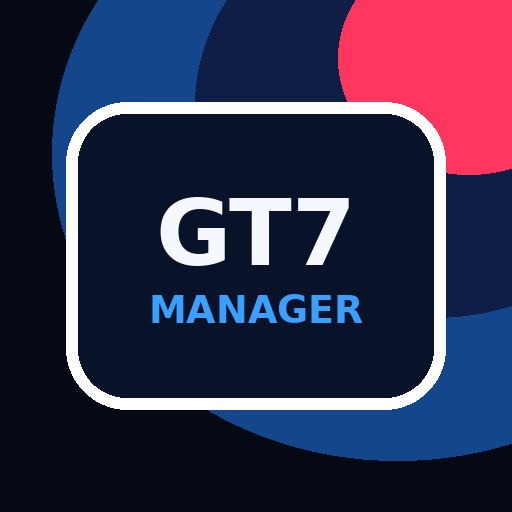
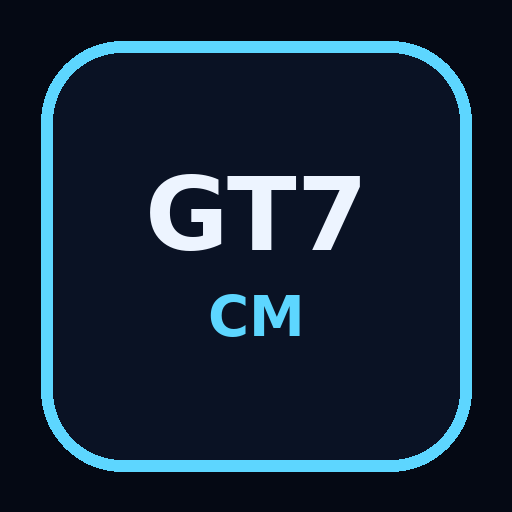
Add files via upload

diff --git a/index.html b/index.html
@@ -2,61 +2,70 @@
 <html lang="es">
 <head>
   <meta charset="utf-8" />
-  <meta name="viewport" content="width=device-width,initial-scale=1,viewport-fit=cover" />
+  <meta name="viewport" content="width=device-width, initial-scale=1, viewport-fit=cover" />
   <meta name="theme-color" content="#050914" />
   <meta name="apple-mobile-web-app-capable" content="yes" />
   <meta name="apple-mobile-web-app-status-bar-style" content="black-translucent" />
-  <meta name="apple-mobile-web-app-title" content="GT7 Manager" />
+  <meta name="apple-mobile-web-app-title" content="GT7 CM" />
   <link rel="manifest" href="manifest.webmanifest" />
-  <link rel="apple-touch-icon" href="icons/icon-180.png" />
+  <link rel="apple-touch-icon" href="icons/icon-192.png" />
   <title>GT7 Championship Manager</title>
   <style>
-    :root{--bg:#050914;--panel:rgba(255,255,255,.075);--panel2:rgba(255,255,255,.12);--line:rgba(255,255,255,.16);--txt:#f3f7ff;--muted:#99a7c1;--blue:#3aa0ff;--red:#ff375f;--gold:#ffd166;--green:#62e6a3;--shadow:0 22px 60px rgba(0,0,0,.45);--r:24px}
-    *{box-sizing:border-box} body{margin:0;font-family:-apple-system,BlinkMacSystemFont,"Segoe UI",Roboto,Helvetica,Arial,sans-serif;background:radial-gradient(circle at 20% 0%,#173d78 0,#071329 35%,#050914 70%),var(--bg);color:var(--txt);min-height:100svh;padding:env(safe-area-inset-top) 0 env(safe-area-inset-bottom)}
-    body:before{content:"";position:fixed;inset:0;background:linear-gradient(120deg,transparent 0 55%,rgba(58,160,255,.08) 56%,transparent 72%),radial-gradient(circle at 85% 12%,rgba(255,55,95,.25),transparent 30%);pointer-events:none}
-    .app{max-width:520px;margin:0 auto;padding:16px;position:relative}.hero{padding:18px 4px 12px}.kicker{font-size:12px;letter-spacing:.18em;text-transform:uppercase;color:var(--blue);font-weight:800}.title{font-size:33px;line-height:.96;font-weight:900;margin:8px 0 8px;letter-spacing:-.05em}.sub{color:var(--muted);font-size:14px}.card{background:linear-gradient(180deg,var(--panel2),var(--panel));backdrop-filter:blur(18px);border:1px solid var(--line);border-radius:var(--r);box-shadow:var(--shadow);padding:16px;margin:12px 0}.row{display:flex;gap:10px;align-items:center}.between{justify-content:space-between}.pill{padding:7px 10px;border-radius:999px;background:rgba(58,160,255,.14);border:1px solid rgba(58,160,255,.25);color:#cfe8ff;font-size:12px;font-weight:750}.bigstat{font-size:30px;font-weight:900;letter-spacing:-.04em}.muted{color:var(--muted)}.grid{display:grid;grid-template-columns:1fr 1fr;gap:10px}.btn{border:0;border-radius:17px;padding:12px 14px;background:linear-gradient(135deg,#2376ff,#18c6ff);color:white;font-weight:850;box-shadow:0 10px 28px rgba(35,118,255,.28)}.btn.secondary{background:rgba(255,255,255,.1);border:1px solid var(--line);box-shadow:none}.btn.danger{background:rgba(255,55,95,.18);border:1px solid rgba(255,55,95,.35);box-shadow:none}nav{position:sticky;bottom:10px;margin:18px 0 0;background:rgba(7,13,28,.86);backdrop-filter:blur(20px);border:1px solid var(--line);border-radius:22px;padding:7px;display:grid;grid-template-columns:repeat(5,1fr);gap:4px;z-index:5}nav button{border:0;background:transparent;color:var(--muted);border-radius:16px;padding:9px 2px;font-size:11px;font-weight:800}nav button.active{background:rgba(58,160,255,.18);color:var(--txt)}section{display:none}section.active{display:block}table{width:100%;border-collapse:collapse;font-size:13px}th,td{padding:10px 6px;border-bottom:1px solid rgba(255,255,255,.09);text-align:left}th{color:var(--muted);font-size:11px;text-transform:uppercase;letter-spacing:.08em}td:last-child,th:last-child{text-align:right}.pos{font-weight:900;color:#fff}.tag{font-size:11px;color:var(--muted)}input,select{width:100%;background:rgba(255,255,255,.08);border:1px solid var(--line);border-radius:14px;color:var(--txt);padding:12px;margin:6px 0 10px;font-size:15px}label{font-size:12px;color:var(--muted);font-weight:800;text-transform:uppercase;letter-spacing:.08em}.race{display:grid;grid-template-columns:58px 1fr auto;gap:12px;align-items:center}.round{height:48px;width:48px;border-radius:15px;background:linear-gradient(135deg,rgba(58,160,255,.35),rgba(255,255,255,.08));display:grid;place-items:center;font-weight:900}.mini{font-size:12px;color:var(--muted)}.winner{color:var(--gold);font-weight:900}.driverItem{display:grid;grid-template-columns:1fr 86px 42px;gap:8px;align-items:center}.notice{font-size:13px;line-height:1.4;color:#d7e4ff;background:rgba(255,209,102,.09);border:1px solid rgba(255,209,102,.2);border-radius:18px;padding:12px;margin-top:10px}.hr{height:1px;background:var(--line);margin:14px 0}.toast{position:fixed;left:16px;right:16px;bottom:92px;max-width:488px;margin:0 auto;background:rgba(15,25,47,.94);border:1px solid var(--line);border-radius:18px;padding:12px 14px;box-shadow:var(--shadow);display:none;z-index:9}.toast.show{display:block}.smallbtn{padding:8px 10px;border-radius:12px;font-size:12px}.scoreInput{width:56px;text-align:center;padding:9px 4px;margin:0}.podium{display:grid;grid-template-columns:1fr 1fr 1fr;gap:8px}.pod{padding:12px;border-radius:18px;background:rgba(255,255,255,.08);text-align:center}.pod b{display:block;font-size:18px}.pod span{font-size:11px;color:var(--muted)}
+    :root{--bg:#050914;--panel:#0d1424cc;--panel2:#131d32;--line:#263755;--text:#edf4ff;--muted:#8ea0bc;--accent:#5dd6ff;--gold:#ffd166;--red:#ff5f73;--green:#77e89c;--shadow:0 18px 50px rgba(0,0,0,.45);--radius:22px}
+    *{box-sizing:border-box} body{margin:0;background:radial-gradient(circle at 20% 0%,#213b68 0,#050914 32%,#03050b 100%);color:var(--text);font-family:-apple-system,BlinkMacSystemFont,"SF Pro Display","Segoe UI",Roboto,Arial,sans-serif;min-height:100dvh;overflow-x:hidden}.noise{position:fixed;inset:0;pointer-events:none;background:linear-gradient(135deg,rgba(255,255,255,.05),transparent 35%),repeating-linear-gradient(90deg,rgba(255,255,255,.018) 0 1px,transparent 1px 3px);mix-blend-mode:screen;opacity:.35}.app{max-width:980px;margin:0 auto;padding:env(safe-area-inset-top) 14px calc(90px + env(safe-area-inset-bottom));}.top{padding:22px 4px 12px;display:flex;justify-content:space-between;align-items:center;gap:12px}.brand small{display:block;color:var(--accent);font-weight:700;letter-spacing:.18em;text-transform:uppercase;font-size:11px}.brand h1{margin:.18rem 0 0;font-size:28px;letter-spacing:-.04em}.chip{border:1px solid var(--line);background:rgba(255,255,255,.05);padding:9px 12px;border-radius:999px;color:var(--muted);font-size:13px;white-space:nowrap}.hero{background:linear-gradient(145deg,rgba(24,43,79,.95),rgba(9,13,24,.9));border:1px solid rgba(255,255,255,.1);border-radius:30px;padding:18px;box-shadow:var(--shadow);position:relative;overflow:hidden}.hero:after{content:"";position:absolute;right:-80px;top:-80px;width:220px;height:220px;border-radius:50%;background:radial-gradient(circle,rgba(93,214,255,.25),transparent 65%)}.hero h2{margin:0;font-size:21px}.hero p{margin:8px 0 0;color:var(--muted);line-height:1.35}.grid{display:grid;grid-template-columns:repeat(2,1fr);gap:12px;margin-top:14px}.stat{background:rgba(255,255,255,.06);border:1px solid rgba(255,255,255,.08);border-radius:18px;padding:13px}.stat b{display:block;font-size:21px}.stat span{font-size:12px;color:var(--muted)}.tabs{position:fixed;left:0;right:0;bottom:0;background:rgba(3,5,11,.78);backdrop-filter:blur(22px);border-top:1px solid rgba(255,255,255,.1);padding:8px 8px calc(8px + env(safe-area-inset-bottom));display:flex;justify-content:center;z-index:20}.tabbar{display:flex;gap:6px;width:min(960px,100%)}button{font:inherit;color:inherit}.tab{flex:1;border:0;border-radius:16px;background:transparent;color:var(--muted);padding:10px 4px;font-size:11px}.tab.active{background:rgba(93,214,255,.14);color:var(--text);border:1px solid rgba(93,214,255,.25)}.section{display:none;margin-top:16px}.section.active{display:block}.card{background:var(--panel);border:1px solid rgba(255,255,255,.09);border-radius:var(--radius);box-shadow:var(--shadow);padding:16px;margin:12px 0}.card h3{margin:0 0 12px;font-size:18px}.row{display:flex;gap:10px;align-items:center;justify-content:space-between;border-top:1px solid rgba(255,255,255,.07);padding:11px 0}.row:first-of-type{border-top:0}.muted{color:var(--muted);font-size:13px}.pill{padding:6px 9px;border-radius:999px;background:rgba(255,255,255,.07);border:1px solid rgba(255,255,255,.08);font-size:12px}.btn{border:0;border-radius:16px;background:linear-gradient(135deg,#37c8ff,#2764ff);padding:12px 14px;color:white;font-weight:800;box-shadow:0 10px 25px rgba(39,100,255,.28)}.btn.secondary{background:rgba(255,255,255,.07);border:1px solid rgba(255,255,255,.12);box-shadow:none;color:var(--text)}.field{display:grid;gap:6px;margin:10px 0}.field label{font-size:12px;color:var(--muted)}input,select,textarea{width:100%;background:#081020;border:1px solid #253958;color:var(--text);border-radius:14px;padding:11px;font:inherit}table{width:100%;border-collapse:collapse;overflow:hidden}th,td{text-align:left;padding:10px 7px;border-bottom:1px solid rgba(255,255,255,.07);font-size:13px}th{color:var(--muted);font-size:11px;text-transform:uppercase;letter-spacing:.08em}.pos{font-weight:900;color:var(--gold)}.race-title{display:flex;align-items:center;justify-content:space-between;gap:8px}.danger{color:var(--red)}.ok{color:var(--green)}.two{display:grid;grid-template-columns:1fr 1fr;gap:10px}.small{font-size:12px}.modal{position:fixed;inset:0;background:rgba(0,0,0,.65);display:none;align-items:flex-end;z-index:30}.modal.active{display:flex}.sheet{width:100%;max-width:980px;margin:0 auto;background:#081020;border-radius:28px 28px 0 0;border:1px solid rgba(255,255,255,.14);padding:18px 14px calc(18px + env(safe-area-inset-bottom));max-height:88dvh;overflow:auto}@media(min-width:720px){.grid{grid-template-columns:repeat(4,1fr)}.modal{align-items:center}.sheet{border-radius:28px;max-height:80dvh}.tab{font-size:13px}.brand h1{font-size:34px}}
   </style>
 </head>
 <body>
-<div class="app">
-  <div class="hero"><div class="kicker">Gran Turismo 7</div><div class="title">Championship<br>Manager</div><div class="sub">Campeonato offline contra IA: 20 pilotos, Gr.3, BoP, clima variable y formato especial Nordschleife.</div></div>
-  <section id="home" class="active">
-    <div class="card"><div class="row between"><div><div class="tag">Temporada activa</div><div class="bigstat" id="seasonName">Gr.3 World Tour</div></div><div class="pill" id="catPill">GR.3</div></div><div class="hr"></div><div class="grid"><div><div class="tag">Próxima carrera</div><b id="nextRace">-</b></div><div><div class="tag">Líder</div><b id="leader">-</b></div></div></div>
-    <div class="card"><div class="row between"><b>Top 3 campeonato</b><span class="tag">puntos</span></div><div class="podium" id="podium"></div></div>
-    <div class="card"><b>Acciones rápidas</b><div class="grid" style="margin-top:12px"><button class="btn" onclick="go('results')">Meter resultado</button><button class="btn secondary" onclick="go('calendar')">Calendario</button><button class="btn secondary" onclick="exportData()">Exportar</button><button class="btn secondary" onclick="document.getElementById('importFile').click()">Importar</button></div><input id="importFile" type="file" accept="application/json" style="display:none" onchange="importData(event)"><div class="notice">Para iPhone: cuando esté publicada en web, abre en Safari → Compartir → Añadir a pantalla de inicio.</div></div>
-  </section>
-  <section id="standings"><div class="card"><div class="row between"><b>Clasificación general</b><span class="pill">GT Points</span></div><table id="standingsTable"></table></div></section>
-  <section id="calendar"><div class="card"><div class="row between"><b>Calendario</b><button class="btn secondary smallbtn" onclick="shuffleNSGrid()">Sortear NS</button></div><div id="calendarList"></div></div></section>
-  <section id="results"><div class="card"><label>Carrera</label><select id="raceSelect" onchange="renderResultEditor()"></select><div id="resultEditor"></div><button class="btn" onclick="saveResult()">Guardar resultado</button></div></section>
-  <section id="setup"><div class="card"><b>Ajustes de temporada</b><label>Nombre</label><input id="setupName"><label>Categoría</label><select id="setupCat"><option>Gr.3</option><option>Gr.4</option><option>VGT</option><option>Super Formula</option></select><button class="btn" onclick="saveSetup()">Guardar ajustes</button><div class="hr"></div><b>Pilotos</b><div id="driversEdit"></div><button class="btn secondary" onclick="saveDrivers()">Guardar pilotos</button><div class="hr"></div><button class="btn danger" onclick="resetSeason()">Reiniciar temporada</button></div></section>
-  <nav><button class="active" onclick="go('home')">Inicio</button><button onclick="go('standings')">Tabla</button><button onclick="go('calendar')">Carreras</button><button onclick="go('results')">Resultados</button><button onclick="go('setup')">Ajustes</button></nav>
-</div><div class="toast" id="toast"></div>
+<div class="noise"></div><main class="app">
+  <header class="top"><div class="brand"><small>Race Control</small><h1>GT7 Championship Manager</h1></div><div class="chip" id="saveState">Guardado local</div></header>
+  <section class="hero"><h2 id="seasonTitle">Temporada 1 · Gr.3 World Series</h2><p>Campeonato offline para Gran Turismo 7: tú contra 19 IA, 10 pruebas, BoP, clima, pole, vuelta rápida y gestión especial para Nordschleife.</p><div class="grid"><div class="stat"><b id="leaderName">—</b><span>Líder</span></div><div class="stat"><b id="leaderPts">0</b><span>Puntos</span></div><div class="stat"><b id="nextRace">—</b><span>Próxima carrera</span></div><div class="stat"><b>20</b><span>Pilotos</span></div></div></section>
+  <section id="home" class="section active"><div class="card"><h3>Panel principal</h3><div class="row"><div><b>Estado del campeonato</b><div class="muted" id="homeStatus">Sin resultados todavía</div></div><button class="btn" onclick="showTab('results')">Añadir resultado</button></div><div class="row"><div><b>Formato Nordschleife</b><div class="muted">Sprint 1 vuelta con parrilla sorteada + carrera 3 vueltas según sprint</div></div><span class="pill">Especial NS</span></div></div><div class="card"><h3>Próximas pruebas</h3><div id="upcoming"></div></div></section>
+  <section id="calendar" class="section"><div class="card"><div class="race-title"><h3>Calendario</h3><button class="btn secondary" onclick="openCalendarEditor()">Editar</button></div><div id="calendarList"></div></div></section>
+  <section id="drivers" class="section"><div class="card"><div class="race-title"><h3>Pilotos y BoP</h3><button class="btn secondary" onclick="openDriversEditor()">Editar pilotos</button></div><div id="driversList"></div></div></section>
+  <section id="standings" class="section"><div class="card"><h3>Clasificación general</h3><div id="standingsTable"></div></div><div class="card"><h3>Estadísticas</h3><div id="statsTable"></div></div></section>
+  <section id="results" class="section"><div class="card"><h3>Introducir resultado</h3><div class="field"><label>Carrera</label><select id="raceSelect"></select></div><div class="two"><div class="field"><label>Pole</label><select id="poleSelect"></select></div><div class="field"><label>Vuelta rápida</label><select id="flSelect"></select></div></div><div class="field"><label>Orden final / resultado</label><textarea id="resultText" rows="10" placeholder="Una línea por piloto, en orden de llegada. Puedes escribir sólo los números:&#10;1&#10;7&#10;3&#10;...&#10;&#10;o nombres si prefieres."></textarea></div><button class="btn" onclick="saveResult()">Guardar resultado</button><button class="btn secondary" style="margin-left:8px" onclick="fillExample()">Ejemplo</button><p class="muted small">Puntos GT: 25, 20, 16, 13, 11, 10, 9... hasta 1 punto para el 18º. Pole +1 y vuelta rápida +1.</p></div></section>
+  <section id="settings" class="section"><div class="card"><h3>Datos y mantenimiento</h3><div class="row"><div><b>Exportar temporada</b><div class="muted">Copia de seguridad en JSON</div></div><button class="btn secondary" onclick="exportData()">Exportar</button></div><div class="row"><div><b>Importar temporada</b><div class="muted">Pega aquí una copia JSON guardada</div></div></div><textarea id="importBox" rows="5" placeholder="Pega aquí el JSON exportado"></textarea><div style="margin-top:10px"><button class="btn secondary" onclick="importData()">Importar</button><button class="btn secondary danger" onclick="resetData()">Reiniciar</button></div></div></section>
+</main>
+<nav class="tabs"><div class="tabbar"><button class="tab active" data-tab="home" onclick="showTab('home')">Inicio</button><button class="tab" data-tab="calendar" onclick="showTab('calendar')">Calendario</button><button class="tab" data-tab="drivers" onclick="showTab('drivers')">Pilotos</button><button class="tab" data-tab="standings" onclick="showTab('standings')">Clasif.</button><button class="tab" data-tab="results" onclick="showTab('results')">Resultados</button><button class="tab" data-tab="settings" onclick="showTab('settings')">Ajustes</button></div></nav>
+<div class="modal" id="modal"><div class="sheet"><div class="race-title"><h3 id="modalTitle">Editor</h3><button class="btn secondary" onclick="closeModal()">Cerrar</button></div><div id="modalBody"></div></div></div>
 <script>
-const points=[25,20,16,13,11,10,9,8,7,6,5,4,3,2,1,0,0,0,0,0];
-const defaultDrivers=['Tú','Sophy Aki','Sophy Ren','Sophy Kai','Sophy Luna','Sophy Neo','Sophy Mika','Sophy Noa','Sophy Jin','Sophy Rio','Sophy Sora','Sophy Yuna','Sophy Leo','Sophy Emi','Sophy Max','Sophy Hugo','Sophy Alex','Sophy Theo','Sophy Iker','Sophy Niko'];
-const defaultRaces=[['Trial Mountain','Clasificación + carrera','Variable'],['Deep Forest','Clasificación + carrera','Nublado'],['Spa-Francorchamps','Clasificación + carrera','Lluvia variable'],['Suzuka','Clasificación + carrera','Seco'],['Fuji Speedway','Clasificación + carrera','Variable'],['Interlagos','Clasificación + carrera','Nublado'],['Watkins Glen','Clasificación + carrera','Seco'],['Le Mans','Clasificación + carrera','Atardecer variable'],['Grand Valley','Clasificación + carrera','Variable'],['Nürburgring Nordschleife','Sprint 1 vuelta + carrera 3 vueltas','Variable / sorteo sprint']];
+const STORE='gt7cm_v110';
+const points=[25,20,16,13,11,10,9,8,7,6,5,4,3,2,1,1,1,1,0,0];
+const defaultDrivers=['JDM','Sophy Alpha','Sophy Bravo','Sophy Carbon','Sophy Delta','Sophy Eclipse','Sophy Falcon','Sophy Ghost','Sophy Hyper','Sophy Ion','Sophy Joker','Sophy Knight','Sophy Legend','Sophy Matrix','Sophy Nova','Sophy Orion','Sophy Pulse','Sophy Quartz','Sophy Raven','Sophy Striker'];
+const defaultCalendar=[
+ {name:'Trial Mountain',laps:8,weather:'Variable',type:'Qualy + Carrera'},
+ {name:'Deep Forest Raceway',laps:9,weather:'Seco/nublado',type:'Qualy + Carrera'},
+ {name:'Grand Valley Highway 1',laps:7,weather:'Variable',type:'Qualy + Carrera'},
+ {name:'Spa-Francorchamps',laps:6,weather:'Lluvia posible',type:'Qualy + Carrera'},
+ {name:'Suzuka Circuit',laps:7,weather:'Variable',type:'Qualy + Carrera'},
+ {name:'Fuji Speedway',laps:8,weather:'Seco',type:'Qualy + Carrera'},
+ {name:'Interlagos',laps:9,weather:'Variable',type:'Qualy + Carrera'},
+ {name:'Watkins Glen',laps:8,weather:'Seco/nublado',type:'Qualy + Carrera'},
+ {name:'Le Mans',laps:4,weather:'Lluvia posible',type:'Qualy + Carrera'},
+ {name:'Nürburgring Nordschleife',laps:'Sprint 1 + Carrera 3',weather:'Variable',type:'Sprint + Carrera'}
+];
 let data=load();
-function load(){let s=localStorage.gt7pwa; if(s) return JSON.parse(s); return {name:'Gr.3 World Tour',cat:'Gr.3',drivers:defaultDrivers.map((n,i)=>({id:i,name:n,bop:'100/100'})),races:defaultRaces.map((r,i)=>({id:i+1,track:r[0],type:r[1],weather:r[2],results:null,grid:null}))}}
-function persist(){localStorage.gt7pwa=JSON.stringify(data); renderAll()}
-function go(id){document.querySelectorAll('section').forEach(s=>s.classList.remove('active'));document.getElementById(id).classList.add('active');document.querySelectorAll('nav button').forEach(b=>b.classList.remove('active'));[...document.querySelectorAll('nav button')].find(b=>b.textContent.toLowerCase().includes(({home:'inicio',standings:'tabla',calendar:'carreras',results:'resultados',setup:'ajustes'})[id])).classList.add('active'); if(id==='results') renderResultEditor();}
-function calc(){let rows=data.drivers.map(d=>({...d,pts:0,w:0,pod:0,pole:0,fl:0})); data.races.forEach(r=>{if(!r.results)return; r.results.forEach((id,idx)=>{let x=rows.find(a=>a.id==id); if(x){x.pts+=points[idx]||0; if(idx==0)x.w++; if(idx<3)x.pod++;}}); if(r.pole!=null){let x=rows.find(a=>a.id==r.pole); if(x){x.pts+=1;x.pole++}} if(r.fastest!=null){let x=rows.find(a=>a.id==r.fastest); if(x){x.pts+=1;x.fl++}}}); return rows.sort((a,b)=>b.pts-a.pts||b.w-a.w||b.pod-a.pod)}
-function renderHome(){let st=calc(); seasonName.textContent=data.name; catPill.textContent=data.cat; leader.textContent=st[0]?.name||'-'; let nr=data.races.find(r=>!r.results); nextRace.textContent=nr?nr.track:'Temporada completa'; podium.innerHTML=st.slice(0,3).map((d,i)=>`<div class="pod"><span>${i+1}º</span><b>${d.pts}</b><span>${d.name}</span></div>`).join('')}
-function renderStandings(){let st=calc(); standingsTable.innerHTML='<tr><th>#</th><th>Piloto</th><th>V</th><th>Pod</th><th>Pts</th></tr>'+st.map((d,i)=>`<tr><td class="pos">${i+1}</td><td>${d.name}<div class="tag">BoP ${d.bop}</div></td><td>${d.w}</td><td>${d.pod}</td><td><b>${d.pts}</b></td></tr>`).join('')}
-function renderCalendar(){calendarList.innerHTML=data.races.map(r=>`<div class="race" style="margin-top:12px"><div class="round">${r.id}</div><div><b>${r.track}</b><div class="mini">${r.type} · ${r.weather}</div>${r.results?`<div class="winner">Ganador: ${name(r.results[0])}</div>`:''}</div><div class="pill">${r.results?'OK':'Pend.'}</div></div>`).join('')}
-function renderResultSelect(){raceSelect.innerHTML=data.races.map(r=>`<option value="${r.id}">${r.id}. ${r.track}</option>`).join('')}
-function renderResultEditor(){let r=data.races.find(x=>x.id==raceSelect.value)||data.races[0]; let arr=r.results||data.drivers.map(d=>d.id); resultEditor.innerHTML=`<div class="notice">Ordena posiciones introduciendo el dorsal/ID de cada piloto. Pole y vuelta rápida suman 1 punto. En Nordschleife puedes sortear parrilla del sprint desde Calendario.</div><label>Pole</label><select id="pole">${data.drivers.map(d=>`<option value="${d.id}" ${r.pole==d.id?'selected':''}>${d.name}</option>`).join('')}</select><label>Vuelta rápida</label><select id="fastest">${data.drivers.map(d=>`<option value="${d.id}" ${r.fastest==d.id?'selected':''}>${d.name}</option>`).join('')}</select><div class="hr"></div>${arr.map((id,i)=>`<div class="driverItem"><div><b>${i+1}º</b> <span class="muted">${name(id)}</span></div><select class="res">${data.drivers.map(d=>`<option value="${d.id}" ${d.id==id?'selected':''}>${d.name}</option>`).join('')}</select><span class="tag">${points[i]||0}p</span></div>`).join('')}`}
-function saveResult(){let r=data.races.find(x=>x.id==raceSelect.value); r.results=[...document.querySelectorAll('.res')].map(s=>Number(s.value)); r.pole=Number(pole.value); r.fastest=Number(fastest.value); persist(); toast('Resultado guardado')}
-function renderSetup(){setupName.value=data.name; setupCat.value=data.cat; driversEdit.innerHTML=data.drivers.map((d,i)=>`<div class="driverItem"><input value="${d.name}" data-i="${i}" class="dn"><input value="${d.bop}" data-i="${i}" class="db"><span class="tag">${i}</span></div>`).join('')}
-function saveSetup(){data.name=setupName.value;data.cat=setupCat.value;persist();toast('Ajustes guardados')}
-function saveDrivers(){document.querySelectorAll('.dn').forEach(e=>data.drivers[e.dataset.i].name=e.value);document.querySelectorAll('.db').forEach(e=>data.drivers[e.dataset.i].bop=e.value);persist();toast('Pilotos guardados')}
-function shuffleNSGrid(){let ns=data.races.find(r=>r.track.includes('Nord')); ns.grid=[...data.drivers].sort(()=>Math.random()-.5).map(d=>d.id); toast('Parrilla sprint NS sorteada: '+ns.grid.slice(0,5).map(name).join(', ')+'...'); persist()}
-function resetSeason(){if(confirm('¿Reiniciar todo el campeonato?')){localStorage.removeItem('gt7pwa');data=load();persist()}}
-function exportData(){let a=document.createElement('a');a.href=URL.createObjectURL(new Blob([JSON.stringify(data,null,2)],{type:'application/json'}));a.download='gt7-campeonato.json';a.click()}
-function importData(e){let f=e.target.files[0];if(!f)return;let r=new FileReader();r.onload=()=>{data=JSON.parse(r.result);persist();toast('Campeonato importado')};r.readAsText(f)}
-function name(id){return data.drivers.find(d=>d.id==id)?.name||'?'}
-function toast(t){let el=document.getElementById('toast');el.textContent=t;el.classList.add('show');setTimeout(()=>el.classList.remove('show'),2600)}
-function renderAll(){renderHome();renderStandings();renderCalendar();renderResultSelect();renderSetup()} renderAll();
-if('serviceWorker' in navigator){navigator.serviceWorker.register('sw.js').catch(()=>{})}
+function load(){try{return JSON.parse(localStorage.getItem(STORE))||fresh()}catch(e){return fresh()}}
+function fresh(){return{season:'Temporada 1 · Gr.3 World Series',drivers:defaultDrivers.map((n,i)=>({id:i+1,name:n,team:i===0?'JDM Racing':'IA GT Team',car:'Gr.3',power:100,weight:100})),calendar:defaultCalendar,results:{}}}
+function save(){localStorage.setItem(STORE,JSON.stringify(data));document.getElementById('saveState').textContent='Guardado '+new Date().toLocaleTimeString('es-ES',{hour:'2-digit',minute:'2-digit'});render()}
+function showTab(id){document.querySelectorAll('.section').forEach(s=>s.classList.remove('active'));document.getElementById(id).classList.add('active');document.querySelectorAll('.tab').forEach(b=>b.classList.toggle('active',b.dataset.tab===id));render()}
+function calc(){let rows=data.drivers.map(d=>({id:d.id,name:d.name,pts:0,wins:0,podiums:0,poles:0,fl:0,entered:0}));let map=Object.fromEntries(rows.map(r=>[r.id,r]));Object.values(data.results).forEach(r=>{(r.order||[]).forEach((id,idx)=>{if(map[id]){map[id].pts+=points[idx]||0;map[id].entered++; if(idx===0)map[id].wins++; if(idx<3)map[id].podiums++;}}); if(map[r.pole]){map[r.pole].pts+=1;map[r.pole].poles++} if(map[r.fastest]){map[r.fastest].pts+=1;map[r.fastest].fl++}});rows.sort((a,b)=>b.pts-a.pts||b.wins-a.wins||b.podiums-a.podiums);return rows}
+function render(){document.getElementById('seasonTitle').textContent=data.season;const st=calc(), leader=st[0];document.getElementById('leaderName').textContent=leader?.name||'—';document.getElementById('leaderPts').textContent=leader?.pts||0;const done=Object.keys(data.results).length;document.getElementById('nextRace').textContent=data.calendar[done]?.name||'Finalizado';document.getElementById('homeStatus').textContent=done?`${done}/10 carreras disputadas`:'Sin resultados todavía';renderUpcoming();renderCalendar();renderDrivers();renderStandings(st);renderResultSelectors()}
+function renderUpcoming(){let done=Object.keys(data.results).length;document.getElementById('upcoming').innerHTML=data.calendar.slice(done,done+3).map((r,i)=>`<div class="row"><div><b>${done+i+1}. ${r.name}</b><div class="muted">${r.type} · ${r.laps} vueltas · ${r.weather}</div></div><span class="pill">${r.name.includes('Nord')?'NS':'Gr.3'}</span></div>`).join('')||'<p class="muted">Temporada completada.</p>'}
+function renderCalendar(){document.getElementById('calendarList').innerHTML=data.calendar.map((r,i)=>`<div class="row"><div><b>${i+1}. ${r.name}</b><div class="muted">${r.type} · ${r.laps} · ${r.weather}</div></div><span class="pill ${data.results[i]?'ok':''}">${data.results[i]?'Completada':'Pendiente'}</span></div>`).join('')}
+function renderDrivers(){document.getElementById('driversList').innerHTML=data.drivers.map(d=>`<div class="row"><div><b>${d.id}. ${d.name}</b><div class="muted">${d.team} · ${d.car}</div></div><span class="pill">P ${d.power}% · W ${d.weight}%</span></div>`).join('')}
+function renderStandings(rows){document.getElementById('standingsTable').innerHTML='<table><thead><tr><th>#</th><th>Piloto</th><th>Pts</th><th>Vic</th><th>Pod</th></tr></thead><tbody>'+rows.map((r,i)=>`<tr><td class="pos">${i+1}</td><td>${r.name}</td><td><b>${r.pts}</b></td><td>${r.wins}</td><td>${r.podiums}</td></tr>`).join('')+'</tbody></table>';document.getElementById('statsTable').innerHTML='<table><thead><tr><th>Piloto</th><th>Poles</th><th>VR</th><th>Salidas</th></tr></thead><tbody>'+rows.map(r=>`<tr><td>${r.name}</td><td>${r.poles}</td><td>${r.fl}</td><td>${r.entered}</td></tr>`).join('')+'</tbody></table>'}
+function renderResultSelectors(){const rs=document.getElementById('raceSelect'); if(!rs)return;rs.innerHTML=data.calendar.map((r,i)=>`<option value="${i}">${i+1}. ${r.name}${data.results[i]?' · editar':''}</option>`).join('');['poleSelect','flSelect'].forEach(id=>document.getElementById(id).innerHTML='<option value="">—</option>'+data.drivers.map(d=>`<option value="${d.id}">${d.id}. ${d.name}</option>`).join(''))}
+function saveResult(){const idx=document.getElementById('raceSelect').value;let lines=document.getElementById('resultText').value.split(/\n+/).map(x=>x.trim()).filter(Boolean);let order=lines.map(x=>{let num=parseInt(x,10); if(num && data.drivers.find(d=>d.id===num))return num;let d=data.drivers.find(d=>d.name.toLowerCase()===x.toLowerCase());return d?.id}).filter(Boolean);order=[...new Set(order)]; if(order.length<1){alert('Introduce al menos un piloto en el orden final.');return}data.results[idx]={order,pole:+document.getElementById('poleSelect').value||null,fastest:+document.getElementById('flSelect').value||null,at:new Date().toISOString()};document.getElementById('resultText').value='';save();alert('Resultado guardado')}
+function fillExample(){document.getElementById('resultText').value=data.drivers.map(d=>d.id).sort(()=>Math.random()-.5).join('\n')}
+function openDriversEditor(){document.getElementById('modalTitle').textContent='Editar pilotos y BoP';document.getElementById('modalBody').innerHTML=data.drivers.map(d=>`<div class="card"><div class="field"><label>Piloto ${d.id}</label><input id="dn${d.id}" value="${d.name}"></div><div class="two"><div class="field"><label>Potencia %</label><input id="dp${d.id}" type="number" value="${d.power}"></div><div class="field"><label>Peso %</label><input id="dw${d.id}" type="number" value="${d.weight}"></div></div></div>`).join('')+'<button class="btn" onclick="saveDriversEditor()">Guardar pilotos</button>';document.getElementById('modal').classList.add('active')}
+function saveDriversEditor(){data.drivers.forEach(d=>{d.name=document.getElementById('dn'+d.id).value||d.name;d.power=+document.getElementById('dp'+d.id).value||100;d.weight=+document.getElementById('dw'+d.id).value||100});closeModal();save()}
+function openCalendarEditor(){document.getElementById('modalTitle').textContent='Editar calendario';document.getElementById('modalBody').innerHTML=data.calendar.map((r,i)=>`<div class="card"><div class="field"><label>Prueba ${i+1}</label><input id="cn${i}" value="${r.name}"></div><div class="two"><div class="field"><label>Vueltas/Formato</label><input id="cl${i}" value="${r.laps}"></div><div class="field"><label>Clima</label><input id="cw${i}" value="${r.weather}"></div></div></div>`).join('')+'<button class="btn" onclick="saveCalendarEditor()">Guardar calendario</button>';document.getElementById('modal').classList.add('active')}
+function saveCalendarEditor(){data.calendar.forEach((r,i)=>{r.name=document.getElementById('cn'+i).value;r.laps=document.getElementById('cl'+i).value;r.weather=document.getElementById('cw'+i).value});closeModal();save()}
+function closeModal(){document.getElementById('modal').classList.remove('active')}
+function exportData(){const txt=JSON.stringify(data,null,2);navigator.clipboard?.writeText(txt);document.getElementById('importBox').value=txt;alert('Exportado y copiado al portapapeles')}
+function importData(){try{data=JSON.parse(document.getElementById('importBox').value);save();alert('Importado')}catch(e){alert('JSON no válido')}}
+function resetData(){if(confirm('¿Reiniciar toda la temporada?')){data=fresh();save()}}
+if('serviceWorker'in navigator){navigator.serviceWorker.register('sw.js').catch(()=>{})}render();
 </script>
-</body>
-</html>
+</body></html>

diff --git a/sw.js b/sw.js
@@ -1,4 +1,4 @@
-const CACHE='gt7-manager-v1';
-const ASSETS=['./','./index.html','./manifest.webmanifest','./icons/icon-192.png','./icons/icon-512.png','./icons/icon-180.png'];
+const CACHE='gt7cm-v110';
+const ASSETS=['./','index.html','manifest.webmanifest','sw.js','icons/icon-192.png','icons/icon-512.png'];
 self.addEventListener('install',e=>e.waitUntil(caches.open(CACHE).then(c=>c.addAll(ASSETS))));
 self.addEventListener('fetch',e=>e.respondWith(caches.match(e.request).then(r=>r||fetch(e.request))));